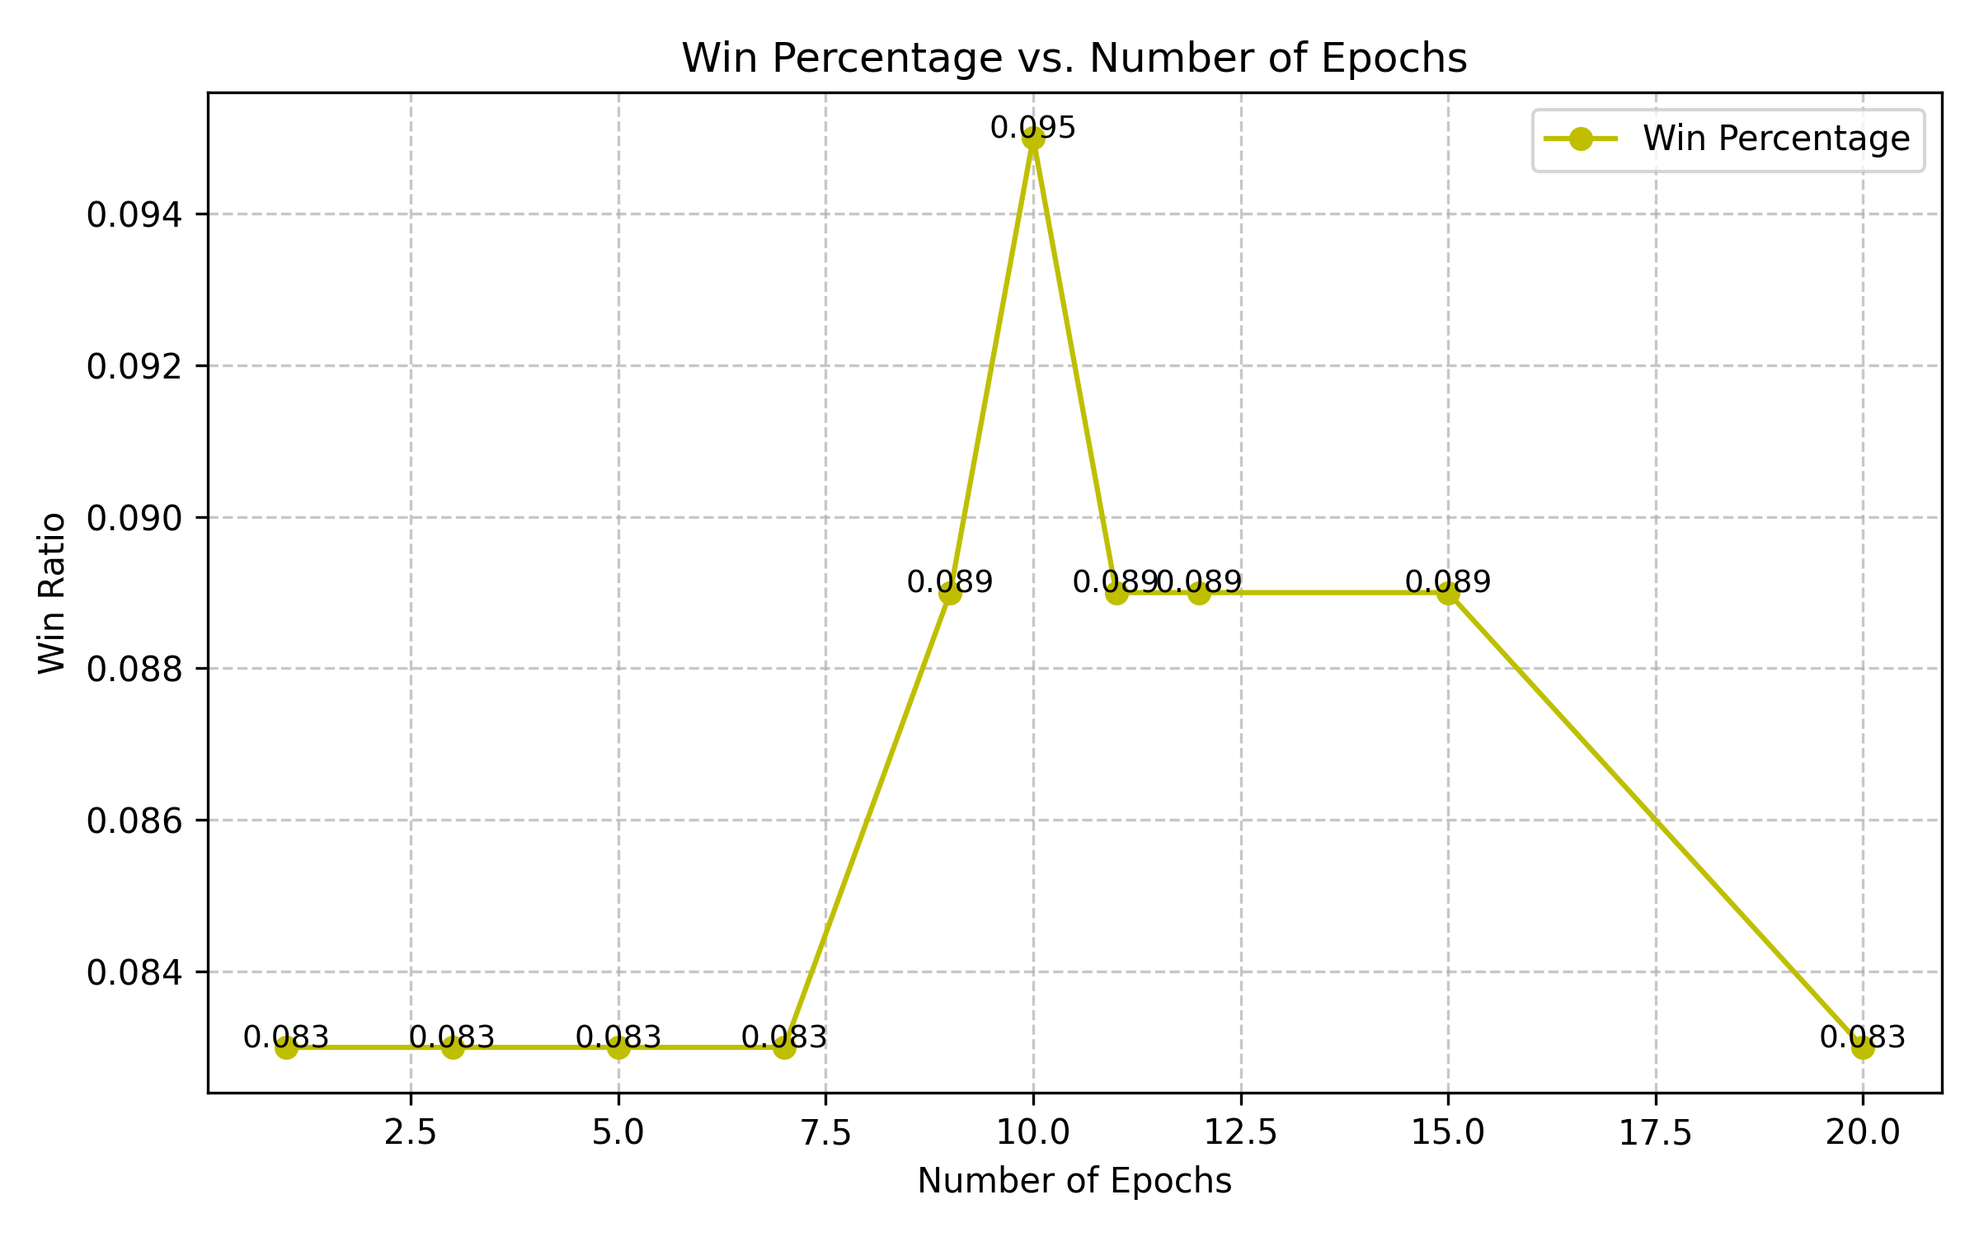
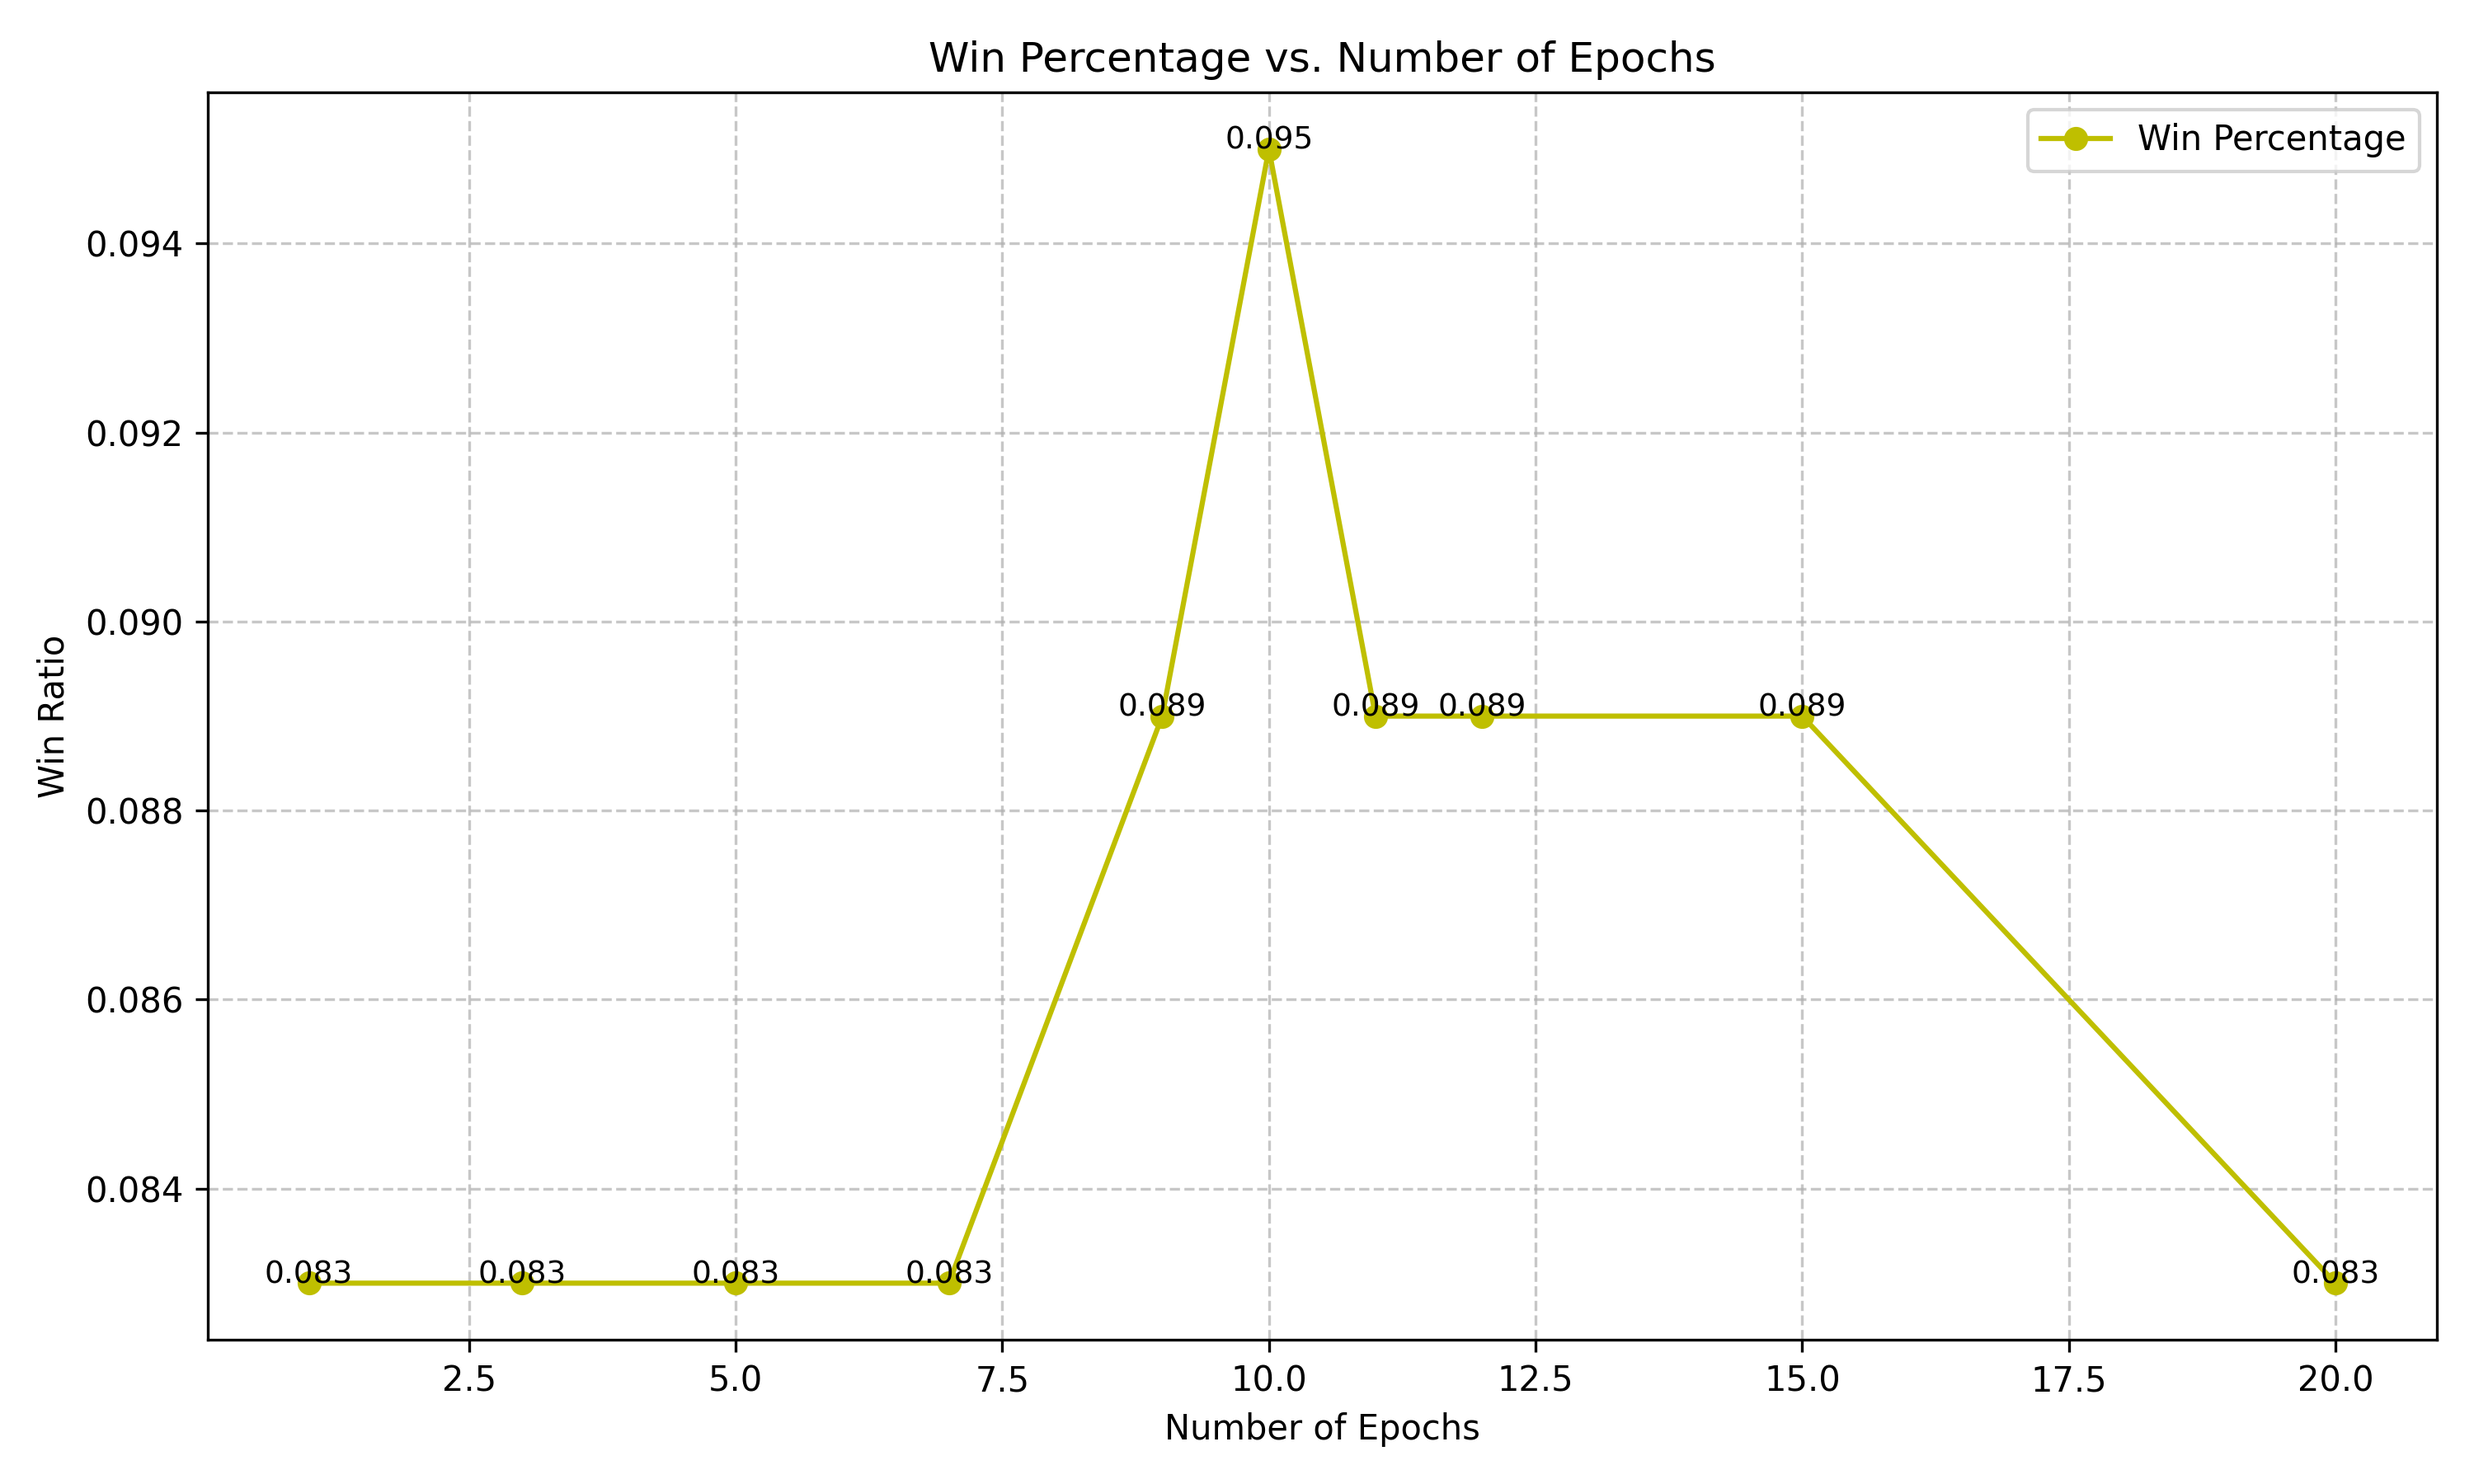
Add plots comparing models

diff --git a/plots/generate_plots.py b/plots/generate_plots.py
@@ -1,9 +1,11 @@
 import matplotlib.pyplot as plt
+import numpy as np
+
 
 def epochs_vs_win_percentage(epochs: list[int]):
     win_percentages = [0.083, 0.083, 0.083, 0.083, 0.089, 0.095, 0.089, 0.089, 0.089, 0.083]
 
-    plt.figure(figsize=(8,5))
+    plt.figure(figsize=(10,6))
     plt.plot(
         epochs,
         win_percentages,
@@ -27,17 +29,17 @@ def epochs_vs_win_percentage(epochs: list[int]):
     plt.savefig('epochs_vs_win_percentage.png', dpi=300)
 
 
-def epochs_vs_total_connections_ratio(epochs: list[int]):
-    connection_ratio = [0.202, 0.202, 0.204, 0.204, 0.212, 0.215, 0.21, 0.21, 0.21, 0.21]
+def epochs_vs_total_connections_accuracy(epochs: list[int]):
+    connection_accuracy = [0.202, 0.202, 0.204, 0.204, 0.212, 0.215, 0.21, 0.21, 0.21, 0.21]
 
-    plt.figure(figsize=(8,5))
+    plt.figure(figsize=(10,6))
     plt.plot(
         epochs,
-        connection_ratio,
+        connection_accuracy,
         marker='o',
         linestyle='-',
         color='y',
-        label='Connections ratio'
+        label='Connections accuracy'
     )
     plt.title('Connection Ratio vs. Number of Epochs')
     plt.xlabel('Connection Ratio')
@@ -46,17 +48,82 @@ def epochs_vs_total_connections_ratio(epochs: list[int]):
     plt.legend()
 
     # Annotate specific points (optional)
-    for x, y in zip(epochs, connection_ratio):
+    for x, y in zip(epochs, connection_accuracy):
         plt.text(x, y, f'{y:.3f}', fontsize=9, ha='center')
 
     # Show or save the plot
     plt.tight_layout()
-    plt.savefig('epochs_vs_connection_ratio.png', dpi=300)
+    plt.savefig('epochs_vs_connection_accuracy.png', dpi=300)
+
+
+def compare_models(model_results: list[dict]):
+    categories = [data['model_name'] for data in model_results]
+    win_percentages = [data['win_percentage'] for data in model_results]
+    connection_accuracies = [data['connection_accuracy'] for data in model_results]
+
+    x = np.arange(len(categories))  # X-axis positions for categories
+    width = 0.35  # Width of each bar
+
+    # Create the plot
+    plt.figure(figsize=(25, 10))
+    plt.bar(x - width / 2, win_percentages, width, label='Win Percentage', color='blue', alpha=0.7)
+    plt.bar(x + width / 2, connection_accuracies, width, label='Connection Accuracy', color='orange', alpha=0.7)
+
+    # Add labels, title, and legend
+    plt.xlabel('Models')
+    plt.ylabel('Performance Ratio')
+    plt.title('Win Percentage and Connection Accuracy of Different Models')
+    plt.xticks(x, categories)
+    plt.legend()
+
+    # Add grid lines for better readability
+    plt.grid(axis='y', linestyle='--', alpha=0.6)
+
+    # Display the graph
+    # plt.tight_layout()
+    plt.savefig('model_comparisons.png')
+
 
 def main():
+    # Comparing different influence of training data on existing word embeddings
     epochs = [1, 3, 5, 7, 9, 10, 11, 12, 15, 20]
     epochs_vs_win_percentage(epochs)
-    epochs_vs_total_connections_ratio(epochs)
+    epochs_vs_total_connections_accuracy(epochs)
+
+    # Comparing different models
+    model_performance = [
+        {
+            'model_name': 'Google Word Embedding 3M',
+            'win_percentage': 0.098,
+            'connection_accuracy': 0.221
+        },
+        {
+            'model_name': 'Google Word Embedding 1M',
+            'win_percentage': 0.092,
+            'connection_accuracy': 0.213
+        },
+        {
+            'model_name': 'Google Word Embedding 500k',
+            'win_percentage': 0.082,
+            'connection_accuracy': 0.186
+        },
+        {
+            'model_name': 'Continuous Skip Gram Embedding',
+            'win_percentage': 0.066,
+            'connection_accuracy': 0.182
+        },
+        {
+            'model_name': 'Twitter Word2Vec Embeddings',
+            'win_percentage': 0.068,
+            'connection_accuracy': 0.203
+        },
+        {
+            'model_name': 'Google Word Embedding 1M + 10 Epoch Training',
+            'win_percentage': 0.095,
+            'connection_accuracy': 0.215
+        },
+    ]
+    compare_models(model_performance)
 
 
 if __name__ == '__main__':
